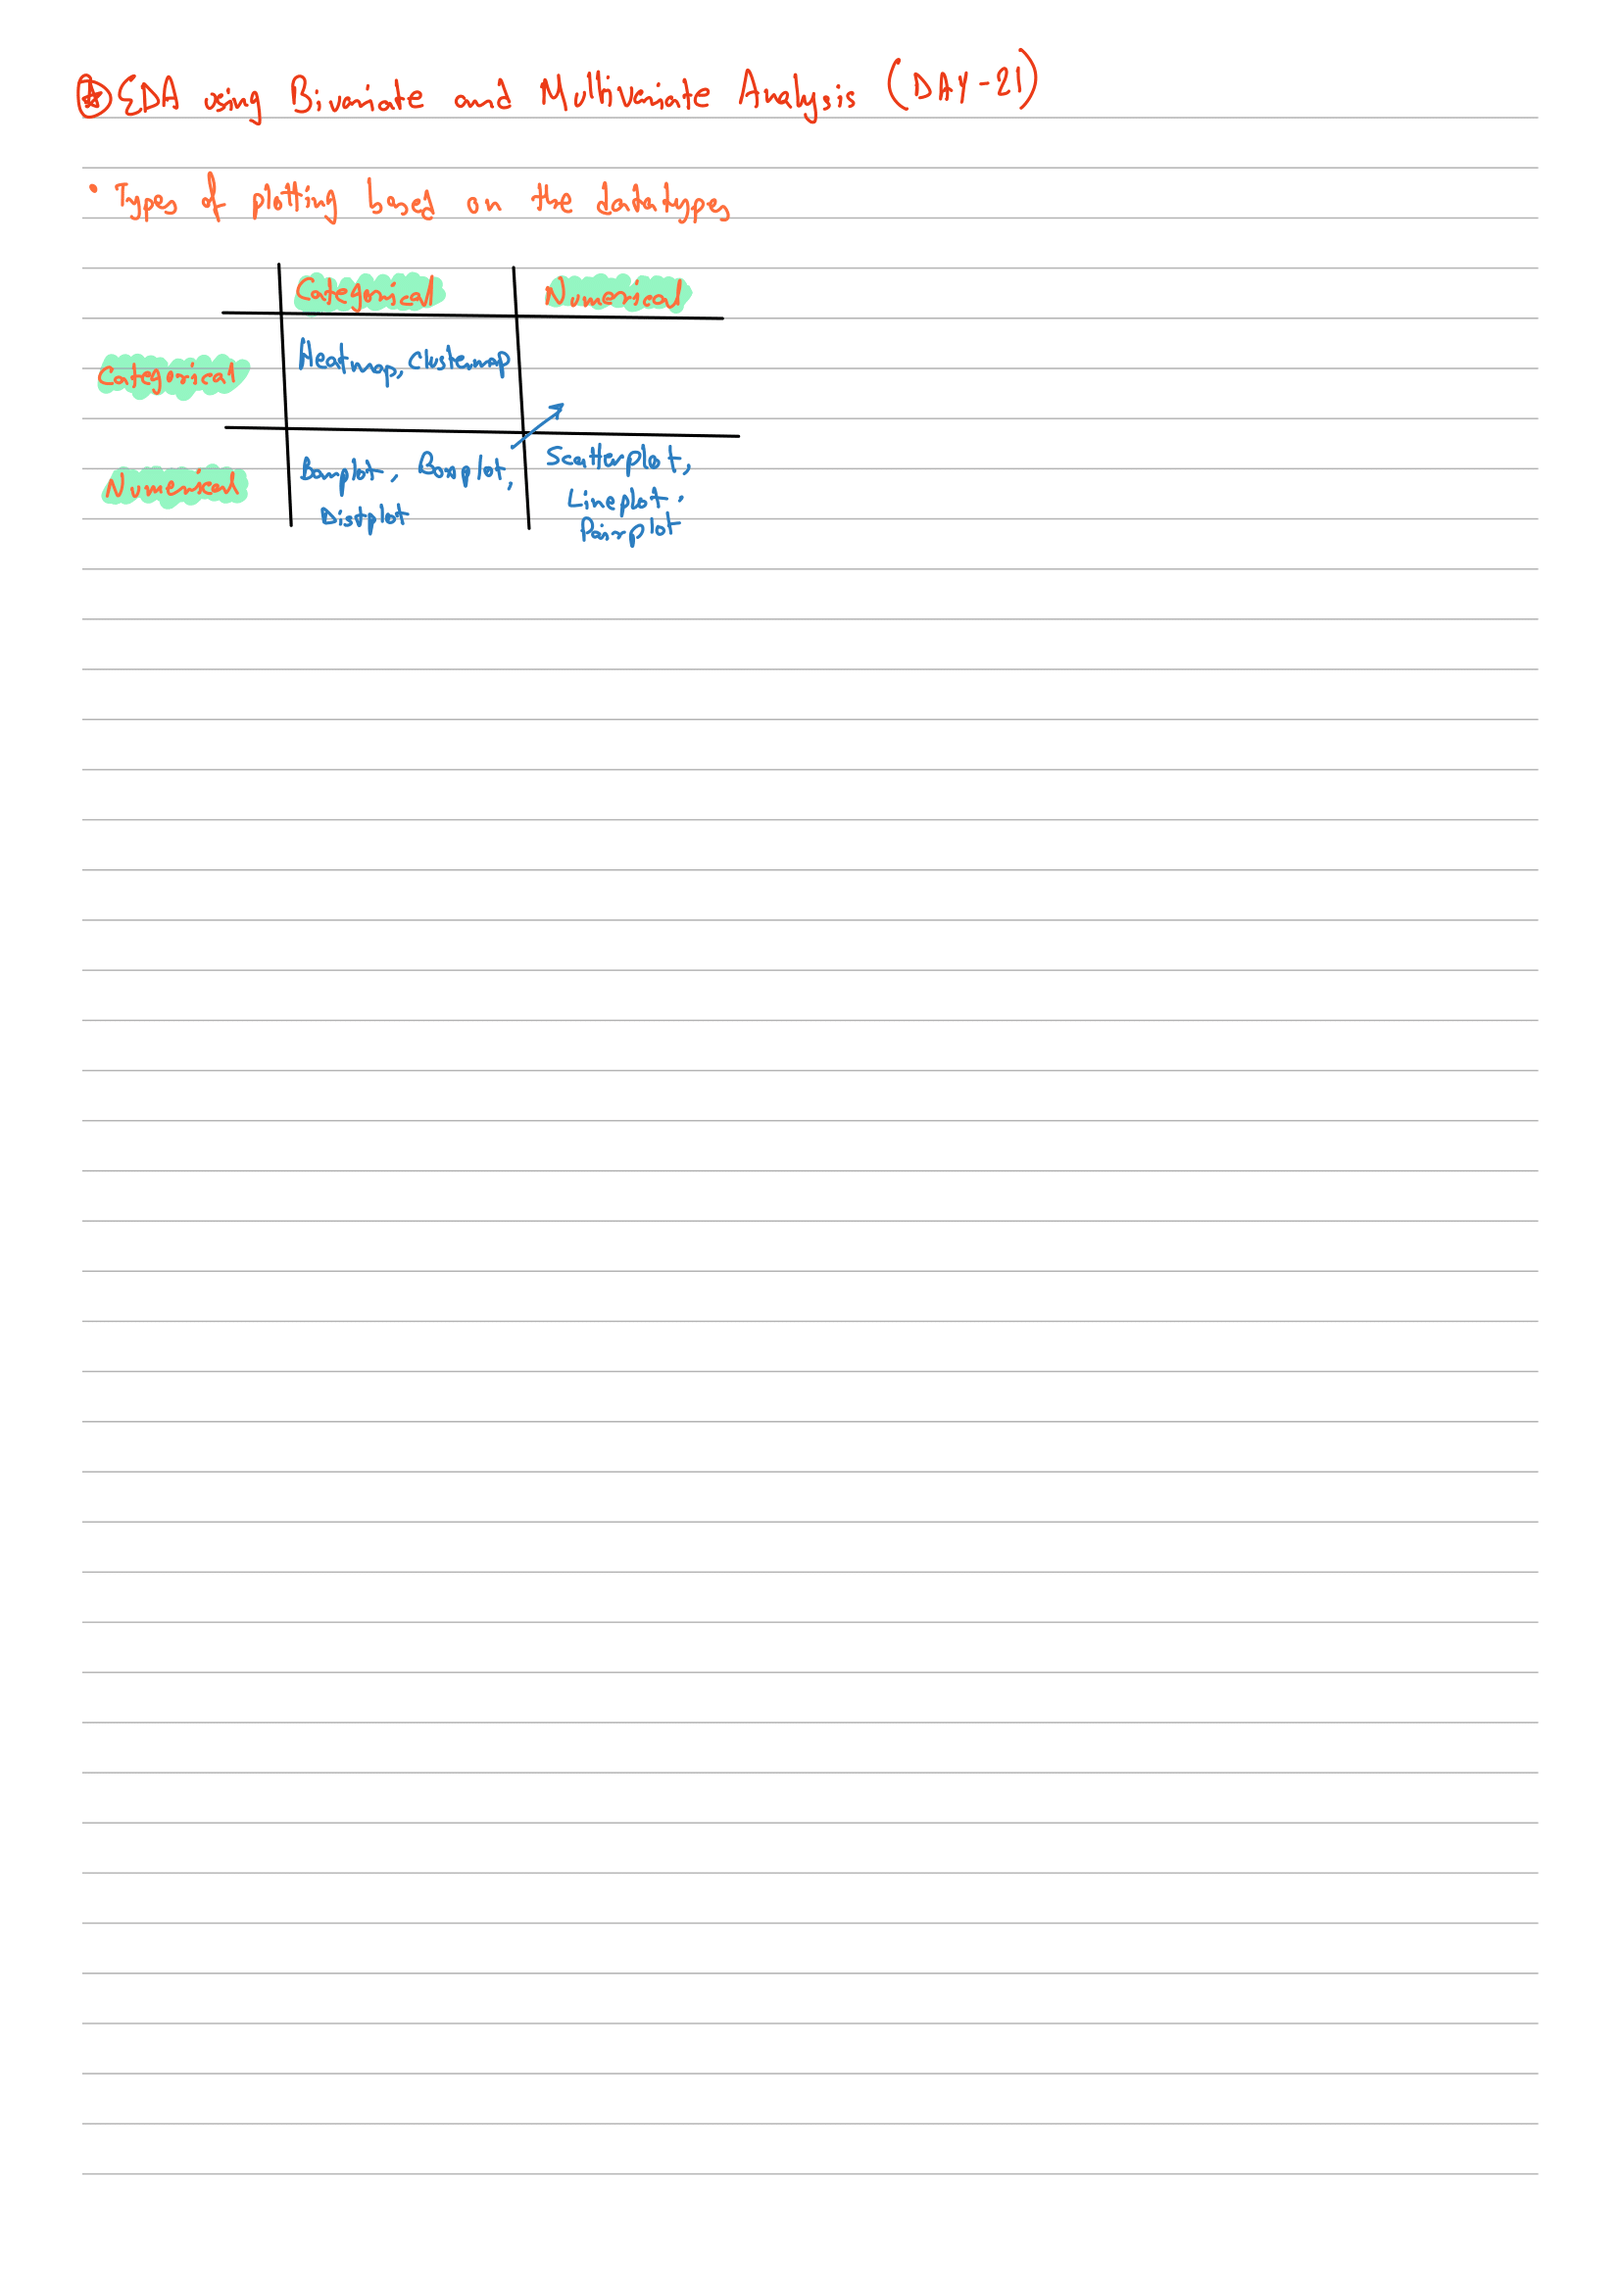
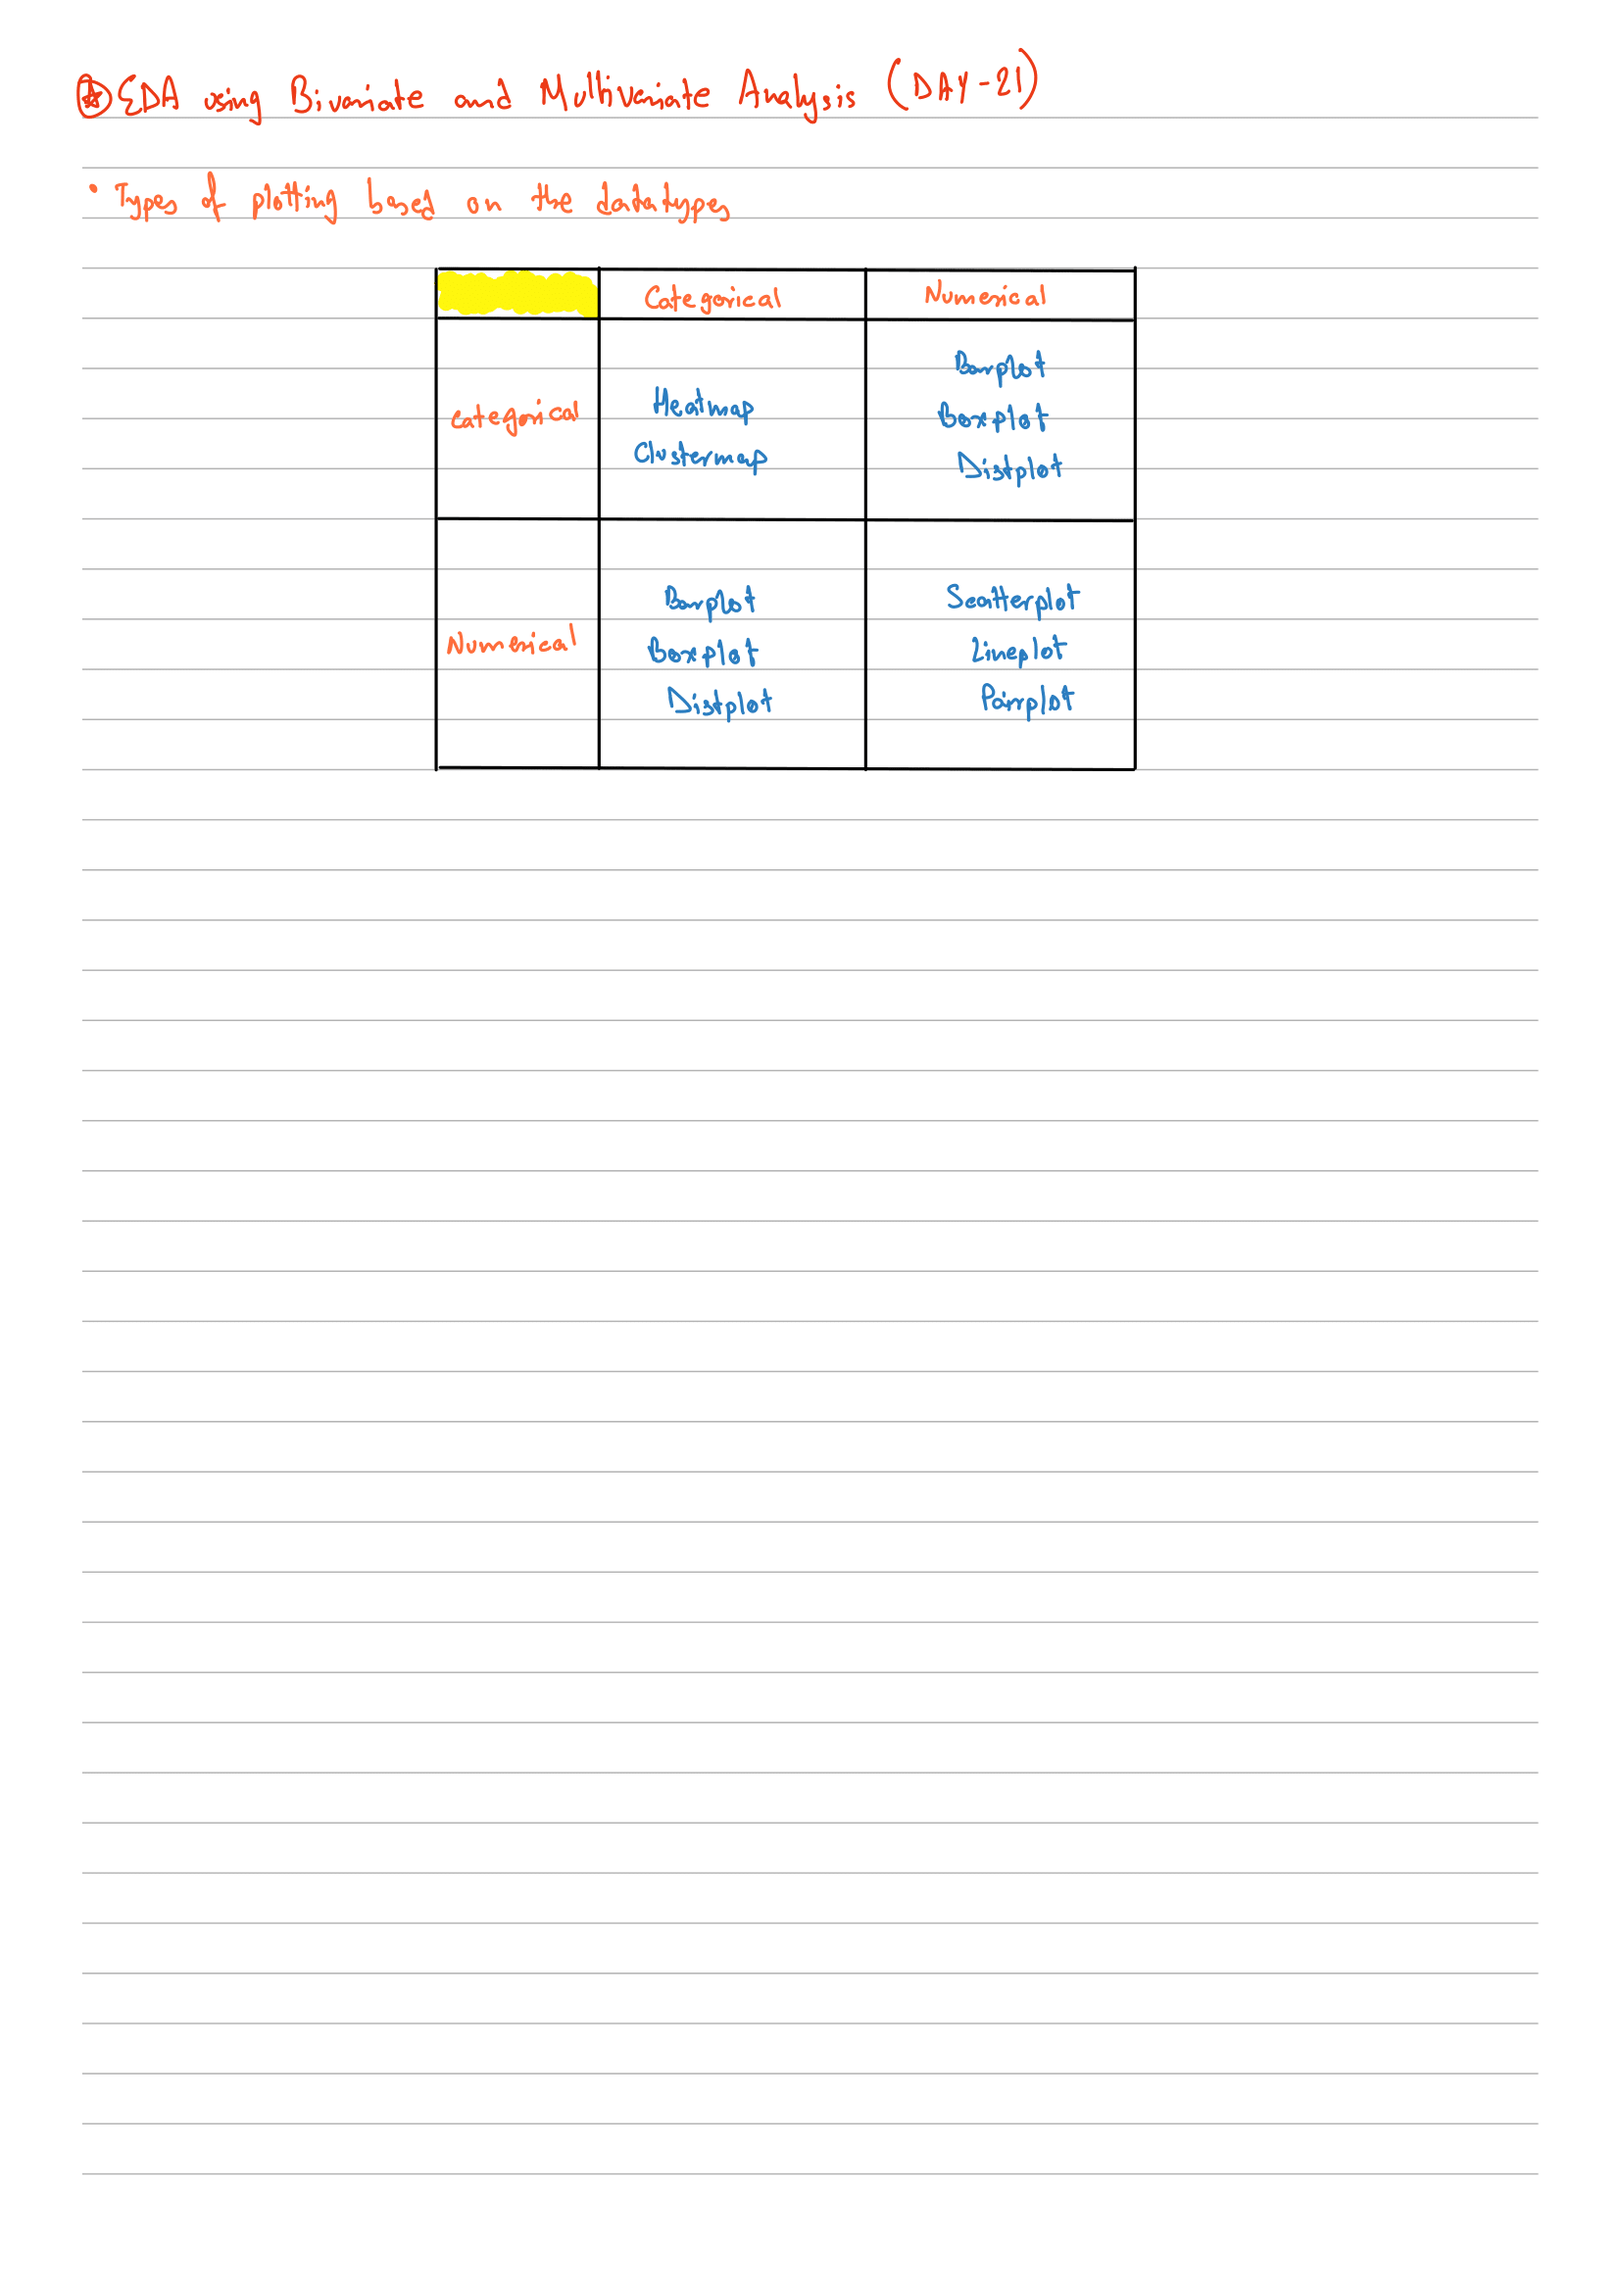
feat: completed DAY-69

diff --git a/notes.md b/notes.md
@@ -1,6 +1,7 @@
-# Advanced Topics to read on:
+# Advanced Topics to read on
 
 - Expected Value
 - Bias Variance Decomposition
 - Lasso Regression - Mathematics and code from scratch
 - Early Stopping
+- Multicollinearity

diff --git a/DAY-69/README.md b/DAY-69/README.md
@@ -1,0 +1,6 @@
+# DAY-69
+
+![](./notes/1.png)
+![](./notes/2.png)
+![](./notes/3.png)
+![](./notes/4.png)
